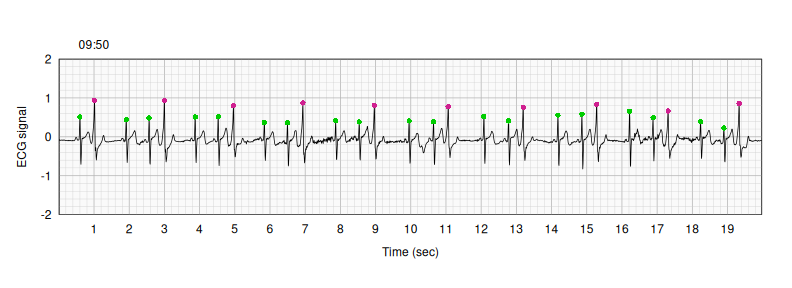
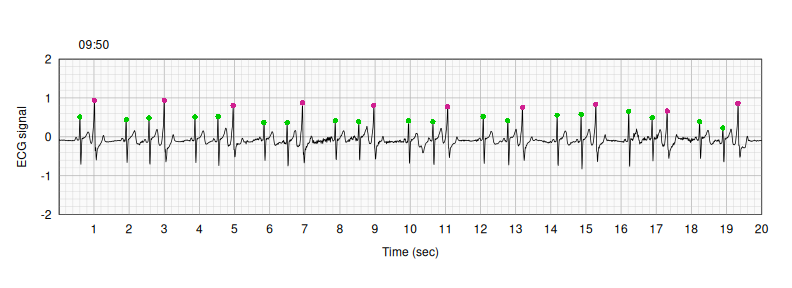
README.Rmd: use get_time_interval;  ->

diff --git a/README.md b/README.md
@@ -71,7 +71,7 @@ missing data points.
 
 
 ``` r
-bad_segs <- find_bad_segments(polar_h10$time, polar_h10$ecg)
+bad_segs <- find_bad_segments(polar_h10$datetime, polar_h10$ecg)
 ```
 
 For this example, there is just one bad segment, covering about
@@ -80,7 +80,7 @@ You can get the total covered length in seconds with `tot_length()`.
 
 
 ``` r
-totlength(bad_segs, polar_h10$time)
+totlength(bad_segs, polar_h10$datetime)
 ```
 
 ```
@@ -91,7 +91,7 @@ Use `detect_peaks()` to detect "R" peaks in the ECG trace.
 
 
 ``` r
-peaks <- detect_peaks(polar_h10$time, polar_h10$ecg, omit_segments=bad_segs)
+peaks <- detect_peaks(polar_h10$datetime, polar_h10$ecg, omit_segments=bad_segs)
 ```
 
 Plot the first 20 seconds of data, and add points above the peaks. The function
@@ -100,7 +100,7 @@ gray grid lines.
 
 
 ``` r
-v <- 1:(130*20)
+v <- get_time_interval(polar_h10$datetime, start=polar_h10$datetime[1], length=20)
 plot_ecg(polar_h10$datetime[v], polar_h10$ecg[v])
 points(polar_h10$datetime[peaks], polar_h10$ecg[peaks], pch=16, col="slateblue")
 ```
@@ -111,7 +111,7 @@ Use `calc_peak_stats()` to calculate some statistics about each peak.
 
 
 ``` r
-peak_stats <- calc_peak_stats(polar_h10$time, polar_h10$ecg, peaks)
+peak_stats <- calc_peak_stats(polar_h10$datetime, polar_h10$ecg, peaks)
 ```
 
 The simplest rule for classifying PVCs is to take `RStime > 50`.